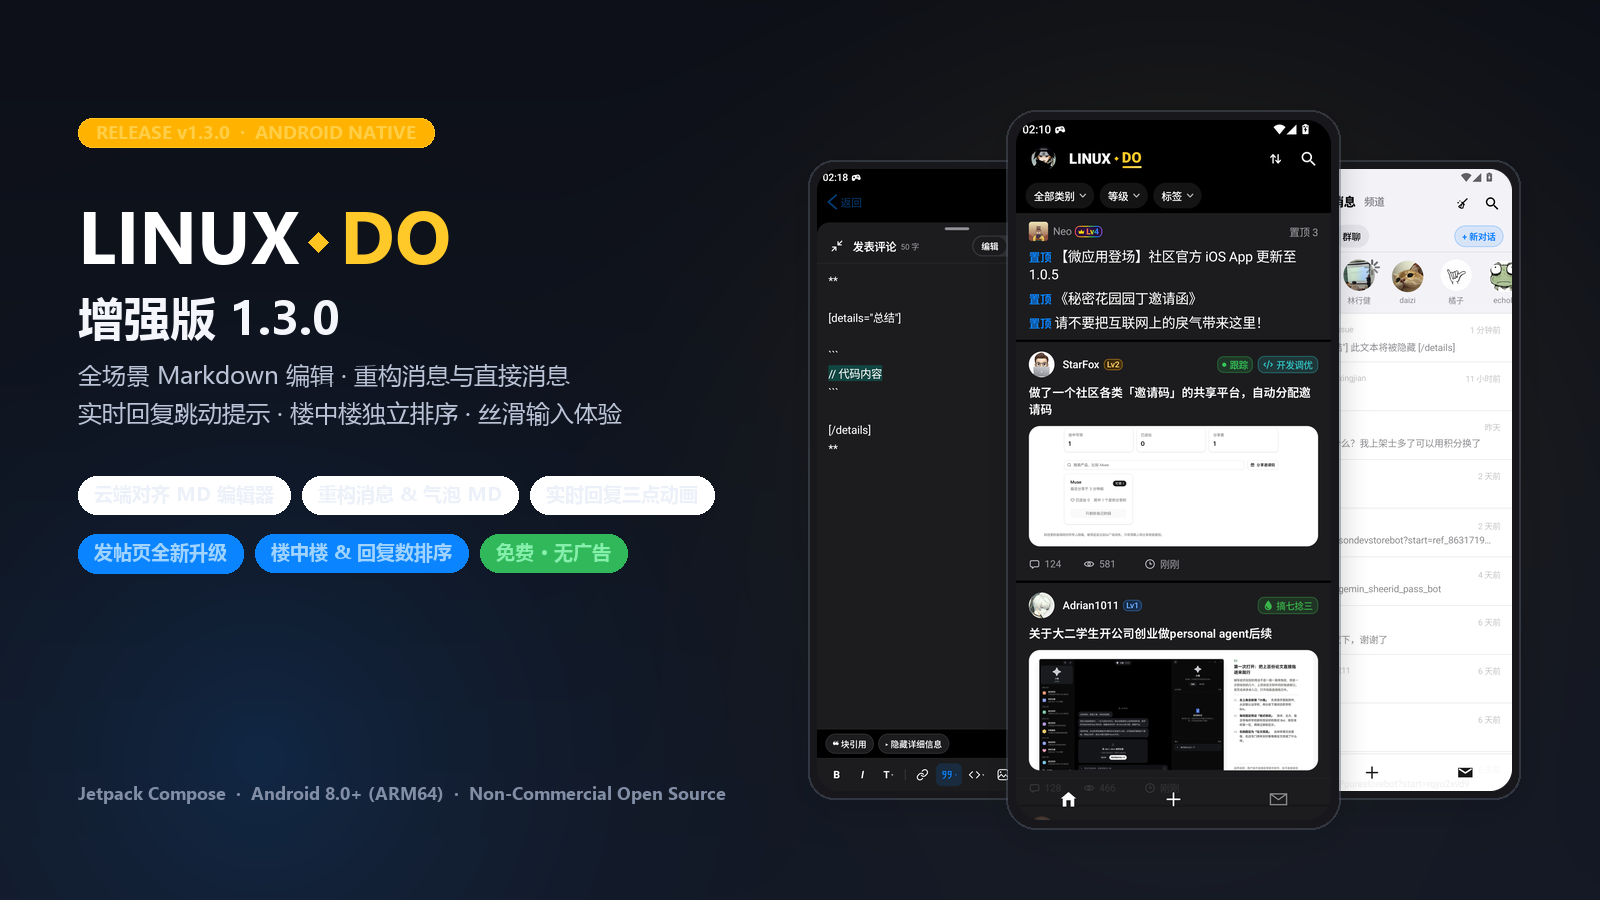
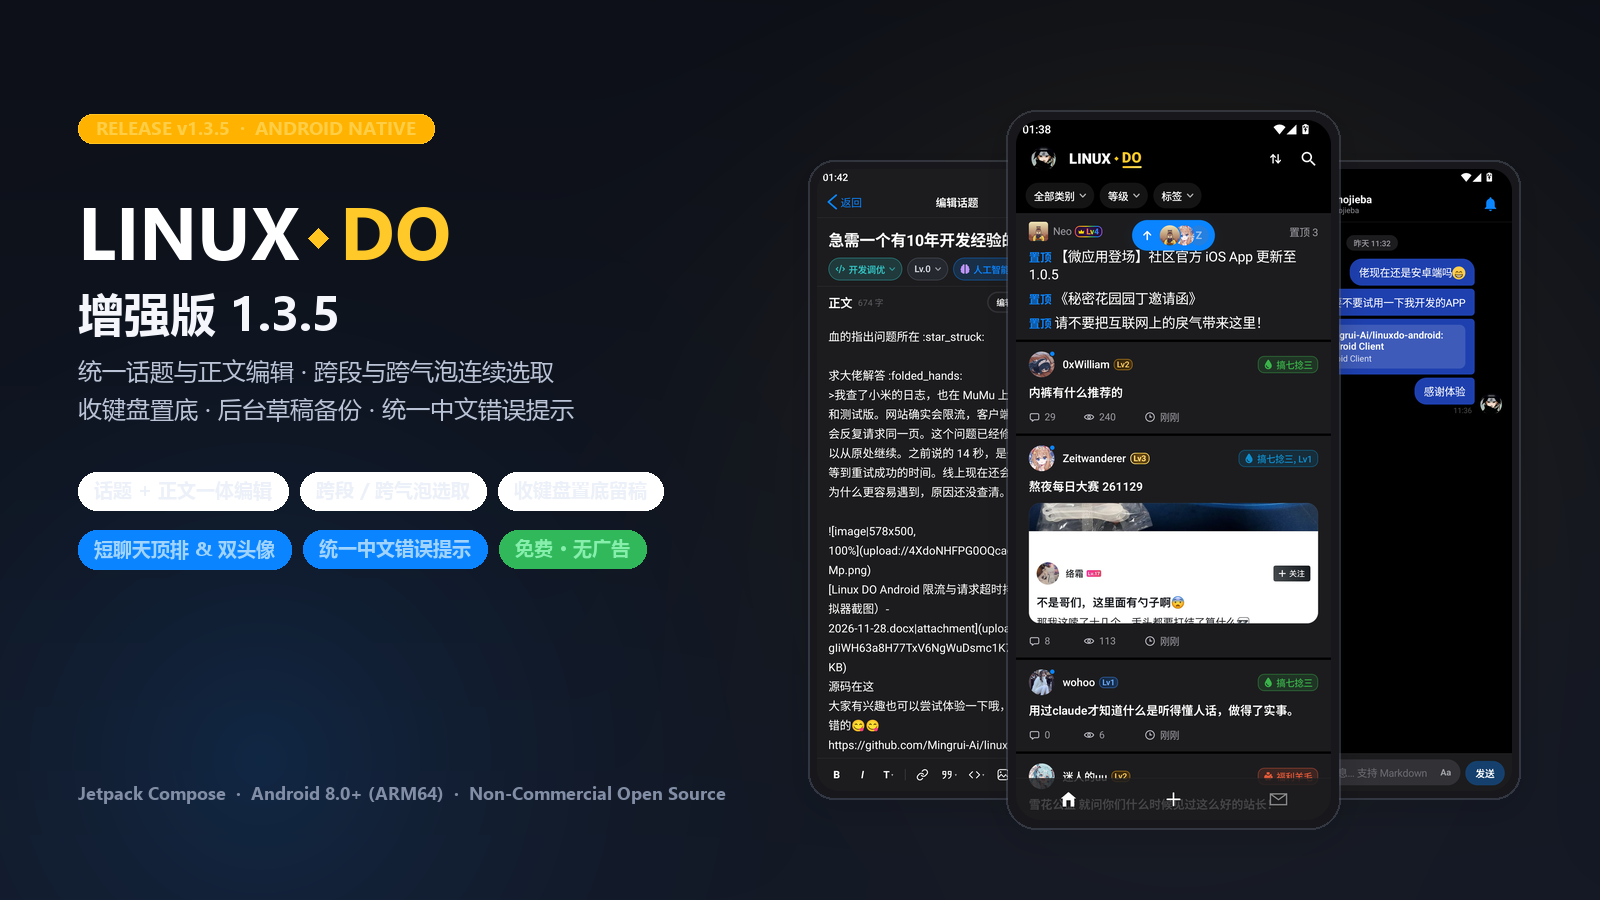
发布 LinuxDo 增强版 1.3.5：更新 README、动图展示与版本配置

diff --git a/README.md b/README.md
@@ -1,6 +1,6 @@
 <div align="center">
 
-<img src="./.github/assets/hero-banner.png" alt="LinuxDo 增强版 1.3.0" width="100%" />
+<img src="./.github/assets/hero-banner.png" alt="LinuxDo 增强版 1.3.5" width="100%" />
 
 <br />
 
@@ -12,8 +12,8 @@
 </p>
 
 <p>
-  <a href="https://github.com/Mingrui-Ai/linuxdo-android/releases/tag/enhanced-v1.3.0">
-    <img src="https://img.shields.io/badge/Release-v1.3.0-FFB300?style=for-the-badge&logo=android&logoColor=white" alt="Release v1.3.0" />
+  <a href="https://github.com/Mingrui-Ai/linuxdo-android/releases/tag/enhanced-v1.3.5">
+    <img src="https://img.shields.io/badge/Release-v1.3.5-FFB300?style=for-the-badge&logo=android&logoColor=white" alt="Release v1.3.5" />
   </a>
   <img src="https://img.shields.io/badge/Android-8.0%2B%20(ARM64)-3DDC84?style=for-the-badge&logo=android&logoColor=white" alt="Android 8.0+" />
   <img src="https://img.shields.io/badge/Jetpack-Compose-4285F4?style=for-the-badge&logo=jetpackcompose&logoColor=white" alt="Jetpack Compose" />
@@ -23,13 +23,13 @@
 </p>
 
 <p>
-  <a href="https://github.com/Mingrui-Ai/linuxdo-android/releases/tag/enhanced-v1.3.0"><strong>⬇ 下载增强版 1.3.0 APK</strong></a>
+  <a href="https://github.com/Mingrui-Ai/linuxdo-android/releases/tag/enhanced-v1.3.5"><strong>⬇ 下载增强版 1.3.5 APK</strong></a>
   &nbsp;·&nbsp;
   <a href="#-动态亮点演示">动态演示</a>
   &nbsp;·&nbsp;
   <a href="#-界面一览">界面一览</a>
   &nbsp;·&nbsp;
-  <a href="#-v130-重磅更新">v1.3.0 更新</a>
+  <a href="#-v135-重点更新">v1.3.5 更新</a>
   &nbsp;·&nbsp;
   <a href="#-下载与构建">构建指南</a>
 </p>
@@ -44,19 +44,19 @@
 <table>
   <tr>
     <td align="center" width="33%">
+      <strong>📝 统一话题与正文编辑</strong><br />
+      <sub>标题 / 分类 / 标签 / 原文同页编辑与预览</sub><br /><br />
+      <img src="./.github/assets/demo-topic-edit.gif" width="245" alt="统一话题与正文编辑器及实时预览演示" />
+    </td>
+    <td align="center" width="33%">
+      <strong>📨 消息置顶 · 短聊顶排 &amp; 双侧头像</strong><br />
+      <sub>新通知顶齐 · 快捷栏去重 · 聊天气泡 MD</sub><br /><br />
+      <img src="./.github/assets/demo-messages-dm.gif" width="245" alt="消息板块、短会话顶排与直接消息演示" />
+    </td>
+    <td align="center" width="33%">
       <strong>💬 实时回复 · 跳动三点动画</strong><br />
       <sub>对齐网页 Presence，头像 + 1.8s 三点波浪</sub><br /><br />
       <img src="./.github/assets/demo-reply-presence.gif" width="245" alt="帖子实时回复状态与跳动三点动画演示" />
-    </td>
-    <td align="center" width="33%">
-      <strong>✍ 全场景 Markdown 编辑与预览</strong><br />
-      <sub>常态精简 Aa · 全屏云端工具栏 · 离线预览</sub><br /><br />
-      <img src="./.github/assets/demo-markdown-composer.gif" width="245" alt="Markdown 编辑器与实时预览演示" />
-    </td>
-    <td align="center" width="33%">
-      <strong>📨 重构消息 & 直接消息 MD 对话</strong><br />
-      <sub>与首页零位移切换 · IM 双行 · 气泡 MD</sub><br /><br />
-      <img src="./.github/assets/demo-messages-dm.gif" width="245" alt="消息板块重构与直接消息演示" />
     </td>
   </tr>
 </table>
@@ -66,11 +66,14 @@
 
 ## 📱 界面一览
 
+### 📝 统一话题编辑 · 标题、分类、标签与正文一页同改
+<img src="./.github/assets/showcase-topic-edit.png" alt="统一话题编辑、首页同款分类下拉与离线实时预览" width="100%" />
+
+### 💬 消息板块打磨 · 新通知顶齐 · 短会话顶排与双侧头像
+<img src="./.github/assets/showcase-messages-dm.png" alt="消息板块、直接消息去重快捷栏与短会话顶排双侧头像" width="100%" />
+
 ### ✍ 全场景 Markdown 编辑 · 云端对齐工具栏 · 新版发帖页
 <img src="./.github/assets/showcase-markdown-creator.png" alt="全场景 Markdown 编辑器、离线预览与新版发帖页" width="100%" />
-
-### 💬 全新消息板块 · 重构直接消息与 Markdown 气泡
-<img src="./.github/assets/showcase-messages-dm.png" alt="全新消息板块与直接消息 Markdown 对话气泡" width="100%" />
 
 ### 📖 清爽读帖 · 回复数与楼中楼排序 · 紧凑简评与表情回应
 <img src="./.github/assets/showcase-topic-reading.png" alt="清爽读帖、回复排序模式、紧凑简评与表情回应" width="100%" />
@@ -87,42 +90,33 @@
 
 | 模块 | 亮点 |
 | --- | --- |
-| **✍ 全场景 Markdown 编辑** | 回帖、发帖与直接消息共用全新 Markdown 编辑器：常态精简低矮不挡视野，点 `Aa` 展开常用格式条；展开全屏完整对齐 LINUX DO 云端（Discourse `composer-redesign`）底部工具栏，含引用下拉 `[details="总结"]` 折叠块、模糊剧透、表格、待办清单、投票与脚注；支持离线实时预览与键盘避让。回复字数不足或提交失败时保留输入框、手机键盘、正文和附件，仅显示失败原因，可继续修改重试；成功后自动关闭。 |
-| **💬 重构消息与直接消息** | 与首页同源两层顶栏，底栏切换首页 ↔ 消息零位移秒切；通知 / 直接消息 / 频道三入口平级展示；直接消息采用 46dp IM 双行排版、顶部最近联系人快捷栏（设置中可开关，默认开启）与 `+ 新对话` 实时搜人；聊天气泡全面支持 Markdown（粗斜删、代码、引用、列表、表格、折叠块与表情）并强化浅深色高对比度。 |
-| **📖 沉浸读帖与实时互动** | 回复栏新增与网页端一致的 **「正在回复…」真实头像 + 1.8s 跳动三点波浪**；支持「默认楼中楼 / 全部展开」与 4 种排序（时间正序/倒序、按点赞数、按回复数），楼中楼操作统一右对齐；自己的可编辑回帖在右下角直接显示铅笔按钮；表情回应点击取消/长按切换，汇总图标降序合并单总数；简评栏压矮合并输入框与发送胶囊；支持「阅读后自动跟随」开关与等待时长设置，已看话题实时消除首页未读蓝点。 |
-| **🏠 首页筛选与流畅浏览** | `类别 / 等级 / 标签` 三维组合筛选，新增 **「最新动态」** 排序；等级菜单区分可见/未解锁/需登录，底部直达「等级与积分」；修复顶栏展开列表抖动与翻页恢复；支持左滑关注/免打扰、X 风格新帖头像胶囊（左高右低叠放）与独立列表排序记忆。 |
-| **👤 个人主页与侧栏** | 侧栏固定展示等级、状态、点数、勋章、简介与关注粉丝；详细主页支持 26 项自定义显示开关、封面大图、原生资料编辑与网页版常规/免打扰/忽略同步；草稿、收藏、徽章、关注与历史页统一视觉语言。 |
-| **🌐 网络与细节体验** | 内置 DoH / ECH 与「内置网络 / 跟随系统」切换；图片与业务请求队列隔离；常用小程序广场（授权失败自动恢复不遮挡）；全新「曜石黑底 · 跃升 L+」品牌图标与登录页。 |
+| **📝 全场景编辑与发帖** | 新话题、话题主帖编辑、回帖与直接消息共用同一套 Markdown 编辑体系：统一的话题编辑页对齐原站逻辑，可同页修改 **标题、分类、Lv 等级、标签与 1 楼 Markdown 原文** 并实时预览；自己可编辑的回帖右下角直接显示铅笔按钮，默认全屏展开编辑；支持自动后台备份草稿（联网补同步、无弹窗打扰），回复与简评支持**收键盘置底保留现场**与**提交失败保持键盘/原文/附件**。 |
+| **📋 跨段落与跨气泡连续选取** | 帖子整层正文与直接消息（含群聊）均支持跨段落、标题、列表、引用与代码块连续选取和全选复制，保留原始换行；图片、时间与互动控件不混入选区；正文长按选取菜单原生接入「引用回复」。 |
+| **💬 重构消息与直接消息** | 与首页同源两层顶栏，底栏切换首页 ↔ 消息零位移秒切；有新通知进入消息页自动顶齐不被顶出；直接消息采用 46dp IM 双行排版、顶部快捷栏（可开关）且自动去重「新对话」入口；短会话从顶栏下方排列、支持轻拖回弹，我方气泡右侧展示头像；发送后自动置底，气泡完整渲染 Markdown。 |
+| **📖 沉浸读帖与实时互动** | 回复栏同步展示 **「正在回复…」真实头像 + 1.8s 跳动三点波浪**；支持「默认楼中楼 / 全部展开」与 4 种排序（时间正序/倒序、按点赞数、按回复数）；表情回应点击取消/长按切换、汇总单一总数；支持「阅读后自动跟随」开关与时长设置，已看话题实时消除首页未读蓝点。 |
+| **🏠 首页筛选与流畅浏览** | `类别 / 等级 / 标签` 三维组合筛选，支持 **「最新动态」** 排序；等级菜单直观区分可见/未解锁/需登录并直达「等级与积分」；支持左滑关注/免打扰、新帖头像胶囊与独立列表排序记忆。 |
+| **🛡 统一中文提示与网络底座** | 全站接口与网络异常统一转为清晰易读中文，剥离原始 JSON / HTML 与 HTTP 状态码透传；内置 DoH / ECH 与「内置网络 / 跟随系统」切换；图片与业务请求队列隔离；全新「曜石黑底 · 跃升 L+」品牌图标与原生个人主页。 |
 
 ---
 
-## 🎉 v1.3.0 重磅更新
+## 🎉 v1.3.5 重点更新
 
-- 💬 **统一错误提示**：接口和网络异常显示易读中文，保留服务端的具体原因，过滤原始 JSON、HTML 与 HTTP 状态码；登录成功判定、安全验证及限流仍按原流程处理。
+### 📝 统一话题编辑与写作手感升级
+- ✨ **统一话题与主帖正文编辑**：对齐原站逻辑，顶栏铅笔与 1 楼编辑统一进入整页话题编辑器，复用首页同款 **分类 / Lv 等级 / 标签** 筛选胶囊与全功能 Markdown 编辑器（含离线预览、专注全屏、附件与投票）；按服务端权限自动区分「仅改元信息」与「同改正文」，按需顺序保存不丢稿。
+- ✏ **自己回帖直达编辑**：自己可编辑的回帖在右下角操作区直接展示铅笔按钮，点击即以全屏展开态进入 Markdown 编辑器，更多菜单不重复冗余。
+- 💾 **草稿自动后台备份 & 正文全高**：发帖页正文铺满可用空间、收起键盘不误退出；返回即刻保存并由 WorkManager 联网后台补同步草稿，告别「草稿尚未同步」打断弹窗；专注正文时顶栏显示话题标题。
+- ⌨ **回复 & 简评收键盘置底 + 失败不丢现场**：回复与简评统一区分「收起键盘」与「系统返回」——收起键盘自动折叠为紧凑底栏、移除遮罩方便边翻帖边写，点输入框秒恢复；提交校验失败时保持输入框与键盘展开、保留原文与附件且仅显示清晰原因。
 
-### ✍ 全场景 Markdown 编辑器与新版发帖页
-- 🚀 **回帖 Markdown 编辑器全面升级**：常态精简 + `Aa` 快捷格式条，全屏对齐云端工具栏分组顺序，内置离线实时预览，支持 `[details="总结"]` 折叠块、剧透、表格、待办、代码与投票。
-- 📝 **新版发帖页**：复用首页同款类别/标签筛选栏与 Markdown 编辑器，支持草稿箱一键新建与置顶防遮挡；正文铺满可用空间并支持长文滚动，收起输入法保留编辑页面。返回直接保存并后台同步草稿，退出应用后联网补同步；展开正文时顶栏显示帖子标题。
-- 📋 **正文连续选取**：长按正文可跨段落、标题、列表、引用和代码块连续选择，整层正文支持全选复制并保留换行；引用回复使用完整选区，图片和互动按钮不混入复制文本。
-- ⚡ **输入法丝滑动画与紧凑简评**：回复与简评均支持侧滑返回关闭编辑器并保留未发送内容；只收起输入法则保留底部输入框，可继续滚动看帖，点输入框恢复输入。列表按置底输入栏高度预留空间；简评栏字数移至右上角并合并输入与发送按钮，移除输入框底部冗余草稿同步提示。
+### 📋 帖子与直接消息跨区连续选取
+- 📑 **帖子正文跨段落连续选取**：整层楼正文共用连续选区，可跨段落、标题、引用、列表、表格与代码块自由拖动选择及全选复制并保留换行，菜单原生支持「引用回复」，不混入图片或按钮文字。
+- 🫧 **直接消息跨气泡连续选取**：直接消息与群聊支持跨自己和对方的多个气泡连续选字与全选复制；加载历史或图片高度变化时精准锚定阅读位置，选字期间收到新消息不自动跳底。
 
-### 💬 消息板块与直接消息彻底重构
-- ✨ **首页同源顶栏，零位移秒切**：通知 / 直接消息 / 频道平级导航，切换首页与消息时左上角头像、右上角搜索与两级栏高度纹丝不动。
-- 💌 **标准 IM 双行会话 & 顶部快捷栏**：46dp 头像（群聊自动 2×2 拼贴）、全部/未读/群聊筛选胶囊；头像栏显示时只保留最左侧「新对话」，隐藏头像栏时显示备用入口。顶部最近联系人快捷栏可在「设置 → 通知与保活」中自由开关（默认开启）。
-- 🎨 **直接消息支持 Markdown 输入与气泡渲染**：复用回帖同款编辑器，气泡完整渲染服务端 HTML 与本地 Markdown，浅/深色高对比度清晰易读，并修复并发发送去重与草稿清理。
-- 📋 **直接消息跨气泡选取**：长按正文后可在自己与对方的多个气泡间连续选择，跨段落、引用和代码块复制并保留换行；全选包含当前已加载的消息正文，时间与控件不混入。加载历史保留阅读位置，选取期间新消息不自动跳到底部。
-- ⬇ **发送后自动置底**：首次进入聊天和主动发送成功后定位最新消息；直接消息底部图片或正文高度变化时继续贴底，浏览历史及选取文字时收到其他消息仍保留阅读位置。
-- 💬 **短会话顶部排列与双侧头像**：消息不足一屏时从顶栏下方依次排列，空白保留在消息下方，支持上下轻拖并回弹；我方气泡右侧显示头像，连续消息沿用分组头像，点击可打开个人资料。
+### 💬 直接消息与通知体验打磨
+- 📌 **新通知顶齐不被顶走**：修复收到新通知后从首页切入消息页时顶部最新通知被顶出可视区、需要手动下拉的问题，通知列表与聊天列表均加入顶部锚点与智能归顶。
+- 🎯 **短会话顶排、双侧头像与发送置底**：消息不足一屏时从顶栏下方自然排列并支持上下轻拖回弹；我方聊天气泡右侧显示真实头像（支持点击查资料）；发送成功或首进会话自动定位底部，且隐藏快捷栏时才显示右侧备用「新对话」按钮，避免入口重复。
 
-### 📖 读帖体验与实时互动升级
-- 👀 **实时回复状态提示**：回复栏同步展示正在回复的佬友头像与 1.8 秒跳动三点波浪，与网页端 Presence 协议一致。
-- 🌲 **回复显示模式与排序分离**：排序菜单独立切换「默认（保留楼中楼）/ 全部展开」，新增 **「按回复数」** 排序；“查看全部回复”与“收起回复”统一右对齐；移除回复栏上下异色细边。
-- ❤ **表情回应与自动跟随**：主帖/回复点赞按钮去红圈背景、直接展示当前回应表情并汇总单一总数；新增「阅读后自动跟随」设置（默认 3 秒，可关闭或自定义 1–3600 秒）；已看话题自动消除首页未读蓝点。
-
-### 🏠 首页筛选、排序与稳定性修复
-- 🔥 **新增「最新动态」排序**，并精简排序菜单宽度与单行说明；优化新帖悬浮按钮头像叠放顺序。
-- 🛡 **低等级权限提示与积分入口**：等级菜单直观区分可见/未解锁状态，底部可一键直达「等级与积分」页面。
-- 🔧 **细节打磨**：修复首页上下栏展开时的列表抖动、翻页失败重载首屏，以及小程序授权失败后遮挡授权页的问题。
+### 🛡 全站错误提示治理
+- 🧹 **统一清晰中文提示**：收敛全站 20+ 处接口与网络错误展示，自动提取服务端具体说明并翻译常见英文提示，彻底移除原始 JSON、HTML 与 `HTTP 4xx/5xx` 状态码透传，同时完整保留登录判定、安全验证与限流处理流程。
 
 ---
 
@@ -130,9 +124,9 @@
 
 ### 下载安装
 
-前往 [Releases](https://github.com/Mingrui-Ai/linuxdo-android/releases/tag/enhanced-v1.3.0) 下载 **`linuxdo-enhanced-1.3.0-arm64-v8a.apk`**（Android 8.0+ / `arm64-v8a`）。
+前往 [Releases](https://github.com/Mingrui-Ai/linuxdo-android/releases/tag/enhanced-v1.3.5) 下载 **`linuxdo-enhanced-1.3.5-arm64-v8a.apk`**（Android 8.0+ / `arm64-v8a`）。
 
-- 包名 `org.linuxdo.android.enhanced`，独立签名，可与原版共存；从增强版 `1.0 / 1.1 / 1.1.1 / 1.2.0 / 1.2.5` 升级可直接覆盖保留数据，并支持应用内自动检查更新。
+- 包名 `org.linuxdo.android.enhanced`，独立签名，可与原版共存；从增强版 `1.0 / 1.1 / 1.1.1 / 1.2.0 / 1.2.5 / 1.3.0` 升级可直接覆盖保留数据，并支持应用内自动检查更新。
 - 公开 Release 仅发布正式版 APK，附带 `version.json`、`SHA256SUMS`、`LICENSE`、`THIRD_PARTY_NOTICES` 与公开签名证书 `release-certificate.pem`。
 
 <details>
